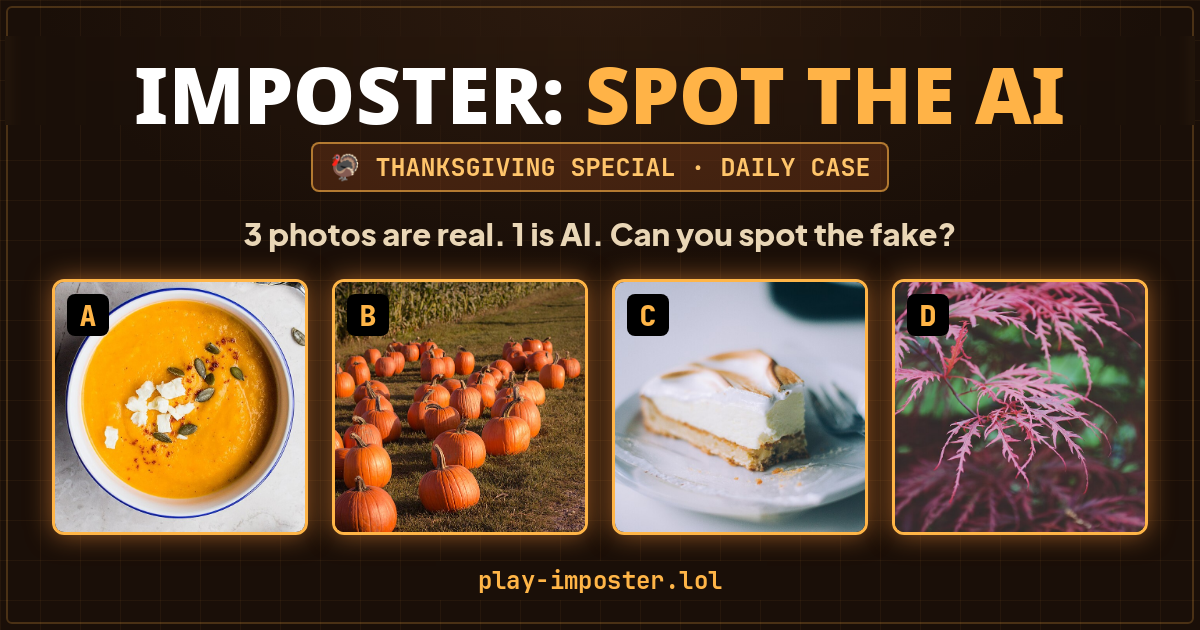
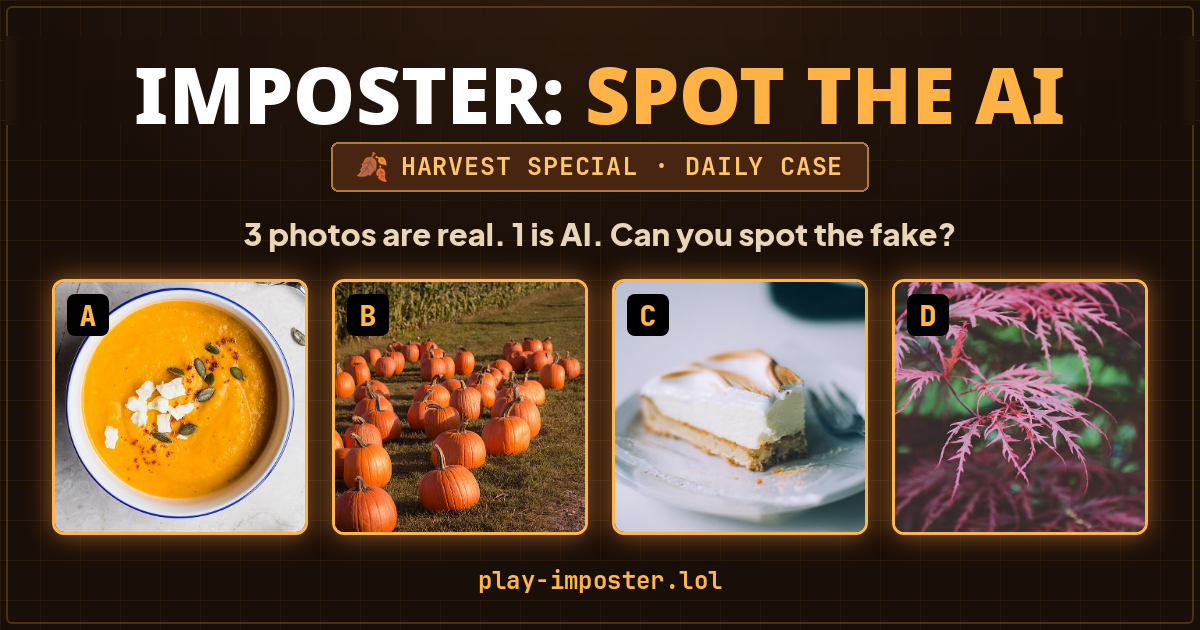
November season says Harvest, not Thanksgiving (players are worldwide)
Badge 🍂 HARVEST SPECIAL, label Harvest (og title: Harvest Edition), link
preview image re-badged (gen/og/rebadge.py, photos untouched), ?v=3 so cached
previews refresh. Internal season id stays 'thanksgiving' so built days keep
working; the client also rewrites any old THANKSGIVING badge in case data.

Changed region(s): [[0.2467, 0.2111, 0.74, 0.3016]]

diff --git a/index.html b/index.html
@@ -3145,7 +3145,7 @@ const SEASONS = {
     p: { bg: "#0b0710", bg2: "#1a0f24", panel: "#1a1222", line: "#3a2752", accent: "#ff7a1a", accent2: "#b45cff", badge: "#ff9d1a", fg: "#f3e9ff", muted: "#a996c2", third: "#ff9a3c" }
   },
   thanksgiving: {
-    id: "thanksgiving", emoji: "🦃", badge: "🦃 THANKSGIVING SPECIAL", og: "og-thanksgiving.png", fx: "leaves",
+    id: "thanksgiving", emoji: "🍂", badge: "🍂 HARVEST SPECIAL", og: "og-thanksgiving.png", fx: "leaves",
     p: { bg: "#1a0f08", bg2: "#2c1a0e", panel: "#2a1a10", line: "#5a3a22", accent: "#ffb547", accent2: "#e8692a", badge: "#ffc56b", fg: "#f6ead2", muted: "#c4ab8a", third: "#ff8a3d" }
   },
   christmas: {
@@ -3177,7 +3177,7 @@ document.documentElement.setAttribute("data-season", SEASON.id);
   const tc = document.querySelector('meta[name="theme-color"]');
   if (tc) tc.setAttribute("content", SEASON.p.bg);
   // Case data may carry a seasonal badge; the player's season wins.
-  const re = /\p{Extended_Pictographic}?\s*(HALLOWEEN|THANKSGIVING|CHRISTMAS)( SPECIAL)?/u;
+  const re = /\p{Extended_Pictographic}?\s*(HALLOWEEN|THANKSGIVING|HARVEST|CHRISTMAS)( SPECIAL)?/u;
   ["caseTag", "cdBadge", "cdActiveBadge"].forEach(id => {
     const el = document.getElementById(id);
     if (!el) return;

diff --git a/functions/_middleware.js b/functions/_middleware.js
@@ -6,7 +6,7 @@ const ALT = "Imposter: 3 photos are real. 1 is AI. Can you spot the fake?";
 function seasonOg(date) {
   // Mirrors SEASON_TABLE in index.html (UTC here: crawlers have no local date).
   const m = date.getUTCMonth() + 1;
-  if (m === 11) return "og-thanksgiving.png?v=2";
+  if (m === 11) return "og-thanksgiving.png?v=3";
   if (m === 12) return "og-christmas.png?v=2";
   return "og-image.png?v=2";
 }

diff --git a/gen/og/rebadge.py b/gen/og/rebadge.py
@@ -1,0 +1,52 @@
+#!/usr/bin/env python3
+"""Redraw only the season badge pill on a link-preview image (og-*.png), keeping photos and title.
+Usage: rebadge.py IN.png OUT.png "🍂" "HARVEST SPECIAL · DAILY CASE"
+Pill geometry and colours were measured from og-thanksgiving.png (1200x630, 40px background grid)."""
+import sys
+from PIL import Image, ImageDraw, ImageFont
+
+src, out, emoji, text = sys.argv[1:5]
+im = Image.open(src).convert("RGB")
+X0, X1, Y0, Y1 = 311, 888, 142, 191          # old pill incl. border
+GRID = 40
+FILL, BORDER, INK = (72, 37, 16), (180, 122, 50), (255, 197, 107)
+
+# 1) erase the old pill: rebuild background + grid by blending the columns just left and right of it
+px = im.load()
+def ref(x_side, x, y):
+    # same grid phase as x, taken from beside the pill
+    k = x % GRID
+    base = x_side - (x_side % GRID) + k
+    return px[base, y]
+for y in range(Y0 - 2, Y1 + 3):
+    for x in range(X0 - 2, X1 + 3):
+        t = (x - X0) / (X1 - X0)
+        l, r = ref(260, x, y), ref(920, x, y)
+        px[x, y] = tuple(round(a * (1 - t) + b * t) for a, b in zip(l, r))
+
+# 2) draw the new pill, sized to the new text and centred like the old one
+font = ImageFont.truetype("/usr/share/fonts/TTF/JetBrainsMonoNerdFont-Bold.ttf", 25)
+SPACING = 0.8
+d = ImageDraw.Draw(im)
+def text_w(s):
+    return sum(font.getlength(c) + SPACING for c in s) - SPACING
+EMO = 30
+gap = 14
+tw = EMO + gap + text_w(text)
+padx = 26
+cx = (X0 + X1) / 2
+left, right = round(cx - tw / 2 - padx), round(cx + tw / 2 + padx)
+d.rounded_rectangle((left, Y0, right, Y1), radius=7, fill=FILL, outline=BORDER, width=2)
+
+ef = ImageFont.truetype("/usr/share/fonts/noto/NotoColorEmoji.ttf", 109)
+tile = Image.new("RGBA", (140, 140), (0, 0, 0, 0))
+ImageDraw.Draw(tile).text((0, 0), emoji, font=ef, embedded_color=True)
+tile = tile.crop(tile.getbbox()).resize((EMO, EMO), Image.LANCZOS)
+x = cx - tw / 2
+cy = (Y0 + Y1) / 2
+im.paste(tile, (round(x), round(cy - EMO / 2)), tile)
+x += EMO + gap
+for c in text:
+    d.text((x, cy), c, font=font, fill=INK, anchor="lm")
+    x += font.getlength(c) + SPACING
+im.save(out, optimize=True)
